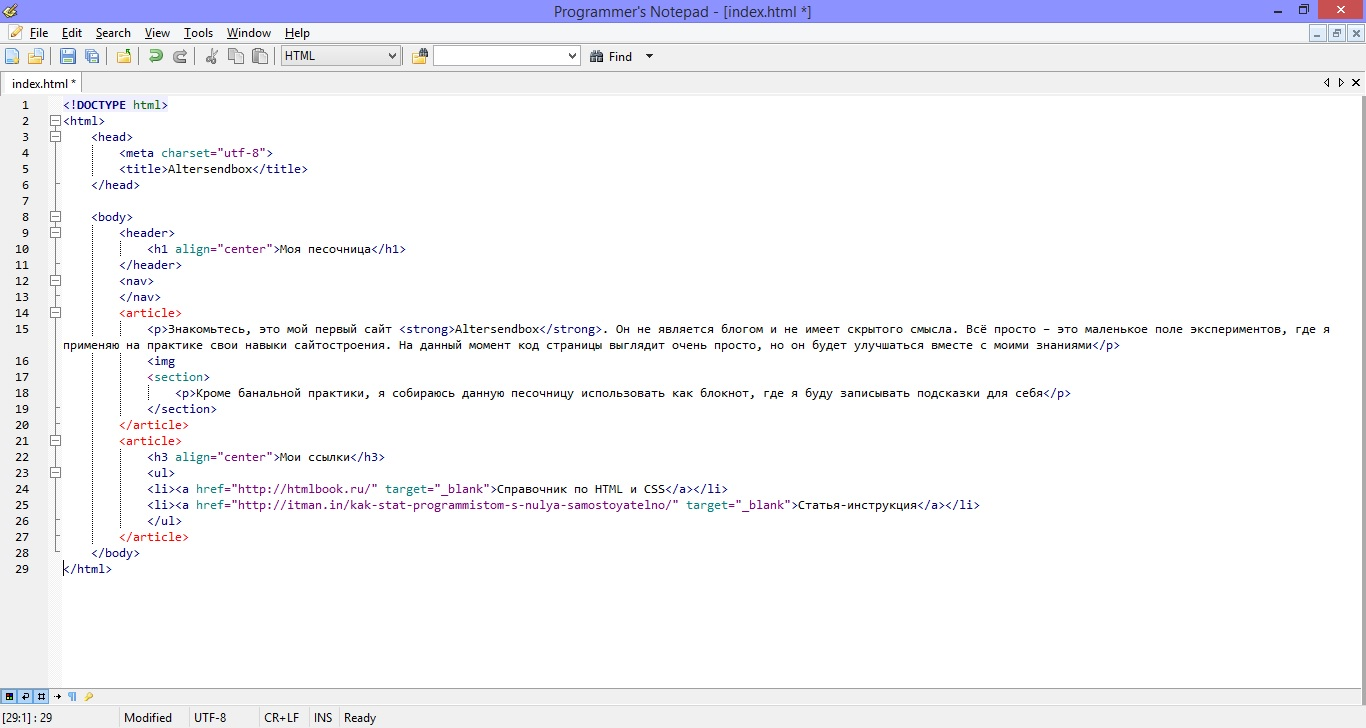
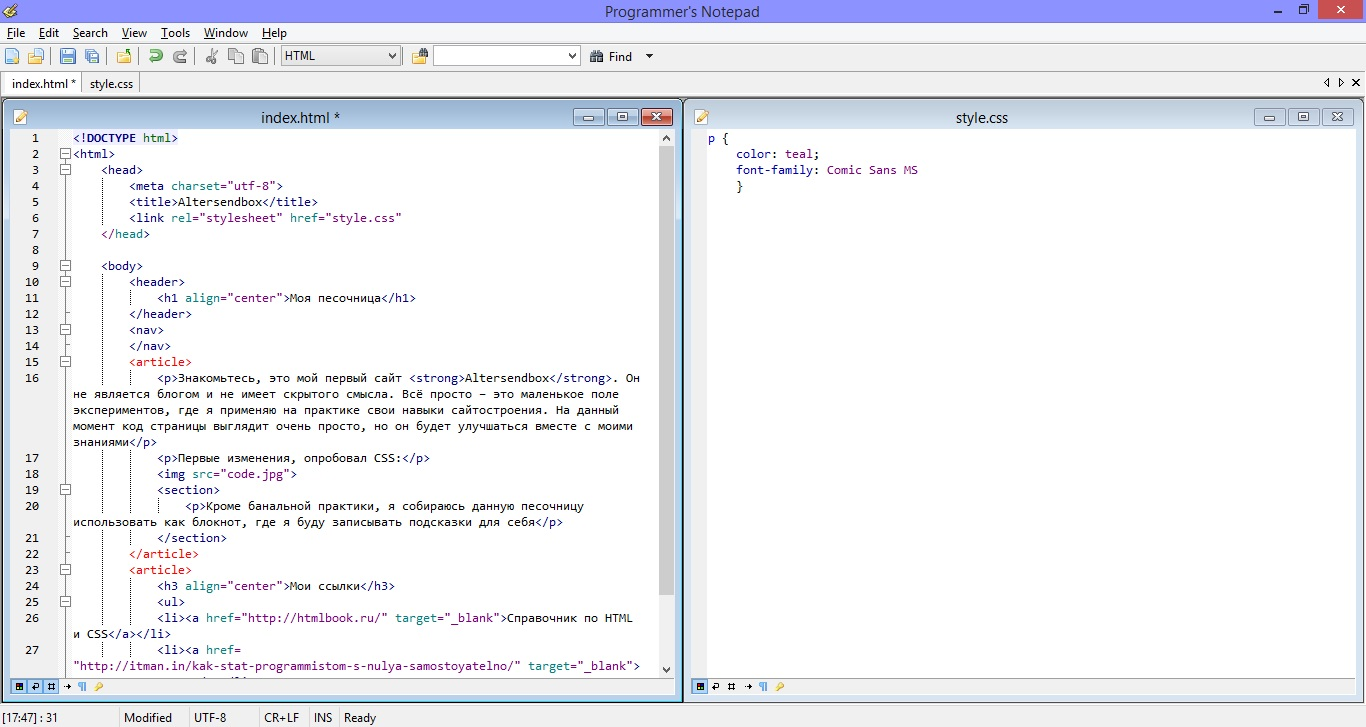
170118

diff --git a/index.html b/index.html
@@ -2,10 +2,11 @@
 <html> 
 	<head>
 		<meta charset="utf-8">
-		<title>Altersendbox</title> 
+		<title>Altersendbox</title>
+		<link rel="stylesheet" href="style.css"
 	</head> 
 
-	<body> 
+	<body>
 		<header>
 			<h1 align="center">Моя песочница</h1>
 		</header>
@@ -13,6 +14,7 @@
 		</nav>
 		<article>
 			<p>Знакомьтесь, это мой первый сайт <strong>Altersendbox</strong>. Он не является блогом и не имеет скрытого смысла. Всё просто – это маленькое поле экспериментов, где я применяю на практике свои навыки сайтостроения. На данный момент код страницы выглядит очень просто, но он будет улучшаться вместе с моими знаниями</p>
+			<p>Первые изменения, опробовал CSS:</p>
 			<img src="code.jpg">
 			<section>
 				<p>Кроме банальной практики, я собираюсь данную песочницу использовать как блокнот, где я буду записывать подсказки для себя</p>

diff --git a/style.css b/style.css
@@ -1,0 +1,4 @@
+p {
+	color: teal;
+	font-family: Comic Sans MS
+	}
